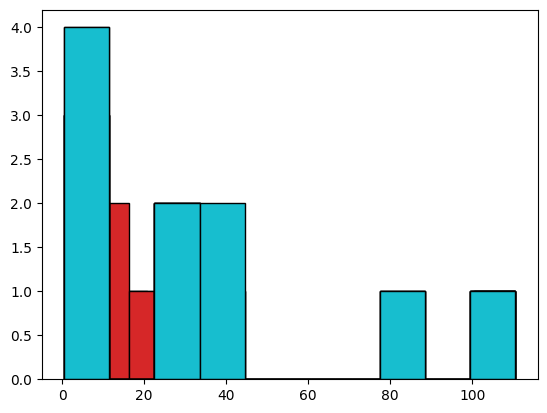
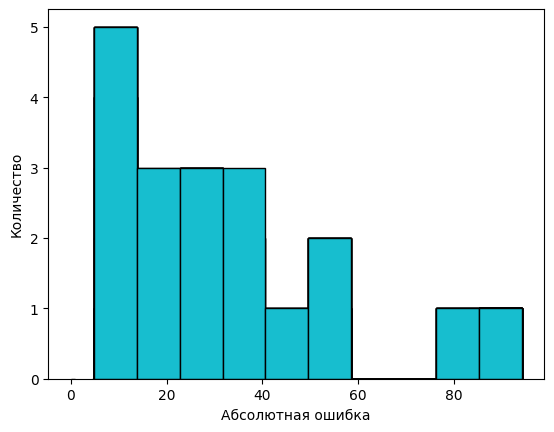
Fix code.

Changed region(s): [[0.0, 0.0, 0.9945, 0.9879]]

diff --git a/lab1/metrics/src/metric.py b/lab1/metrics/src/metric.py
@@ -2,16 +2,22 @@ import json
 import pika
 
 try:
+  # Создаём подключение по адресу "rabbitmq":
   connection = pika.BlockingConnection(pika.ConnectionParameters(host='rabbitmq'))
   channel = connection.channel()
 
+  # Объявляем очередь "features" и "y_pred" и "error"
   channel.queue_declare(queue='y_true')
   channel.queue_declare(queue='y_pred')
   channel.queue_declare(queue='error')
 
+  # Создаем словарь для хранения данных об истинном и предсказанном значениях
   data = {}
+
+  # Задаем путь к файлу с логами
   file_path = 'logs/metric_log.csv'
 
+  # Создаём функцию callback для обработки данных из очереди
   def callback(ch, method, properties, body):
     msg = json.loads(body)
 
@@ -36,15 +42,19 @@ try:
       with open(file_path, 'a') as file:
         file.write(line + '\n')
 
-      channel.basic_publish(exchange='', routing_key='error', body=json.dumps(error))
+      # Отправляем сообщение с вычисленной ошибкой в очередь "error"
+      # По сути, значение имеет не сама ошибка а факт появления новых данных для
+      # построения новой диаграммы сервисом plots
+      msg_error = { 'id': msg_id, 'body': error }
+      channel.basic_publish(exchange='', routing_key='error', body=json.dumps(msg_error))
       print(f'Сообщение с идентификатором {msg_id} с абсолютной ошибкой {error} отправлено в очередь "error"')
 
       del data[msg_id]
 
-  # Извлекаем сообщение из очереди y_true
+  # Извлекаем сообщение из очереди "y_true"
   channel.basic_consume(queue='y_true', on_message_callback=callback, auto_ack=True)
 
-  # Извлекаем сообщение из очереди y_pred
+  # Извлекаем сообщение из очереди "y_pred"
   channel.basic_consume(queue='y_pred', on_message_callback=callback, auto_ack=True)
 
   # Запускаем режим ожидания прихода сообщений

diff --git a/lab1/plots/src/plot.py b/lab1/plots/src/plot.py
@@ -1,3 +1,4 @@
+import json
 import matplotlib.pylab as plt
 import pandas as pd
 import pika
@@ -10,15 +11,24 @@ try:
   # Объявляем очередь "error"
   channel.queue_declare(queue='error')
 
+  # Задаем путь к файлу с логами
   file_path = 'logs/metric_log.csv'
 
   # Создаём функцию callback для обработки данных из очереди
   def callback(ch, method, properties, body):
-    print()
+    msg = json.loads(body)
+
+    msg_id = msg.get('id')
+    msg_body = msg.get('body')
+
+    print(f'Сообщение с идентификатором {msg_id} с правильным ответом {msg_body} получено из очереди "error"')
+
     df = pd.read_csv(file_path, sep=',')
     data = df['absolute_error']
 
     plt.hist(data, bins=10, edgecolor='black')
+    plt.xlabel('Абсолютная ошибка')
+    plt.ylabel('Количество')
     plt.savefig('logs/error_distribution.png', bbox_inches='tight')
 
   # Извлекаем сообщение из очереди features

diff --git a/lab1/features/src/features.py b/lab1/features/src/features.py
@@ -37,8 +37,7 @@ while True:
     channel.basic_publish(exchange='', routing_key='features', body=json.dumps(msg_features))
     print(f'Сообщение с идентификатором {msg_id} с вектором признаков отправлено в очередь "features"')
 
-    # Закрываем подключение и ожидаем 10 секунд перед
-    # отправкой следующего сообщения
+    # Закрываем подключение и ожидаем 10 секунд перед отправкой следующего сообщения
     connection.close()
     time.sleep(10)
   except Exception as e:

diff --git a/lab1/models/src/model.py b/lab1/models/src/model.py
@@ -32,7 +32,7 @@ try:
     channel.basic_publish(exchange='', routing_key='y_pred', body=json.dumps(msg_y_pred))
     print(f'Сообщение с идентификатором {msg_id} с предсказанием {y_pred[0]} отправлено в очередь "y_pred"')
 
-  # Извлекаем сообщение из очереди features
+  # Извлекаем сообщение из очереди "features"
   # on_message_callback показывает, какую функцию вызвать при получении сообщения
   channel.basic_consume(queue='features', on_message_callback=callback, auto_ack=True)
 
